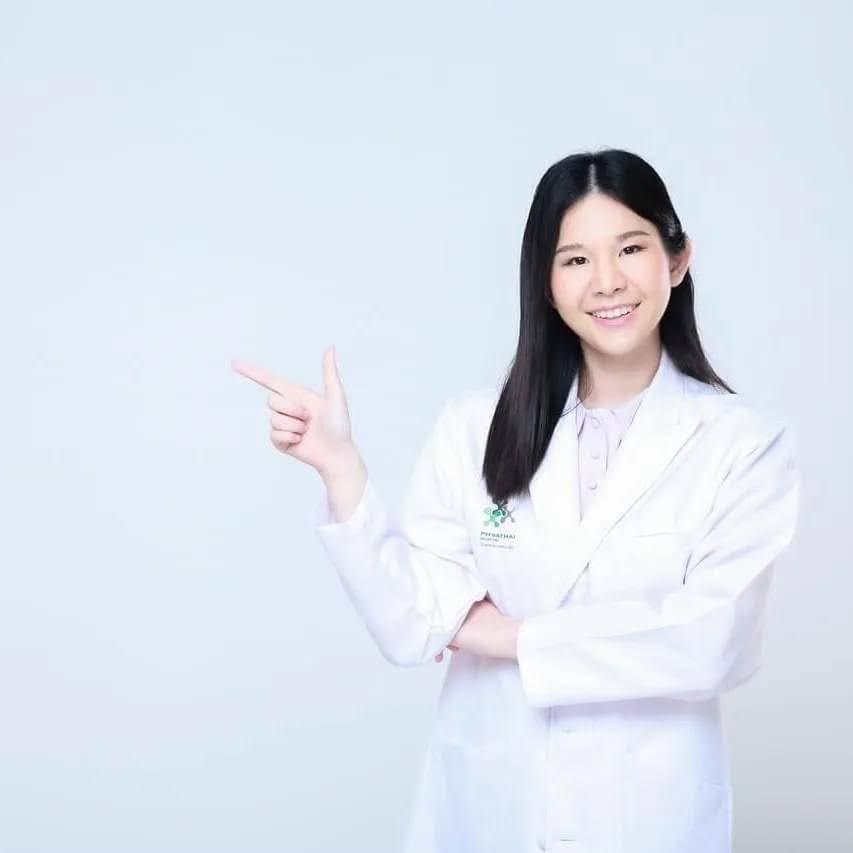
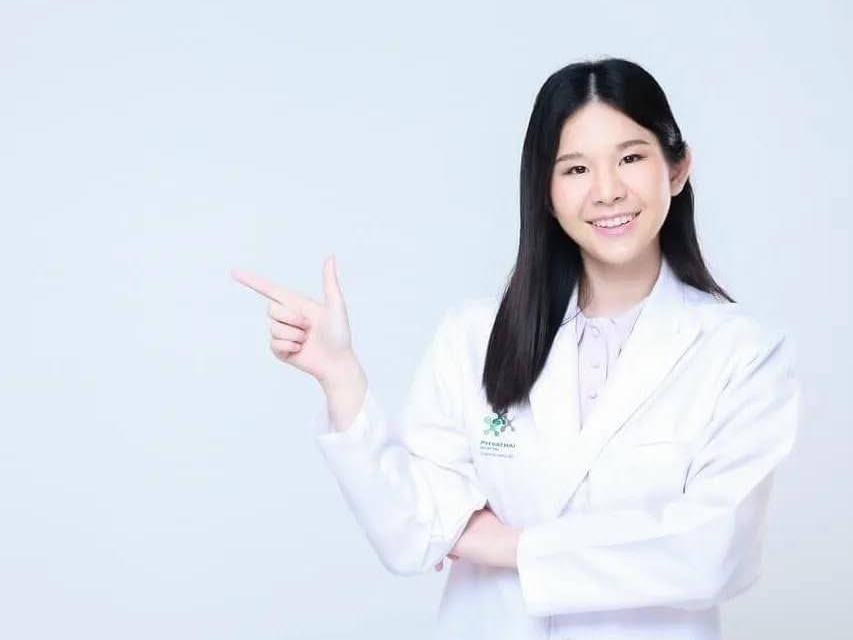
fix: update hero image to 4:3 landscape ratio

diff --git a/components/Hero.tsx b/components/Hero.tsx
@@ -116,7 +116,7 @@ export default function Hero() {
             className="relative"
           >
             <Card className="overflow-hidden bg-white border-violet-100 shadow-elevated-lg hover:shadow-2xl transition-shadow duration-500">
-              <div className="aspect-[3/4] relative overflow-hidden group">
+              <div className="aspect-[4/3] relative overflow-hidden group">
                 <Image
                   src="/studio-photo-202.jpg"
                   alt="Dr. Pattarapornd Suparcha studio portrait"
